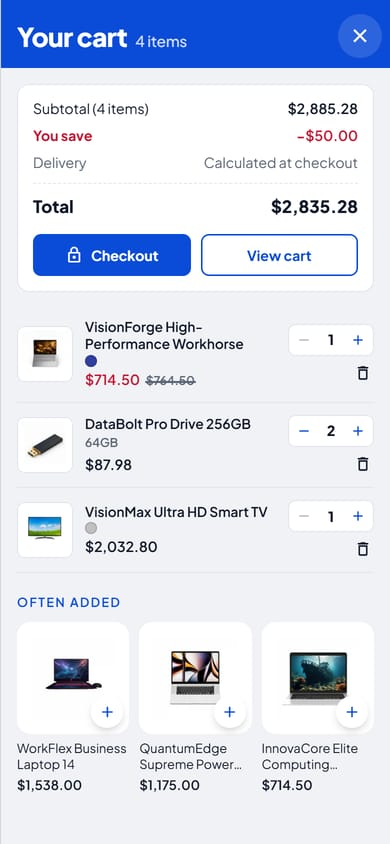
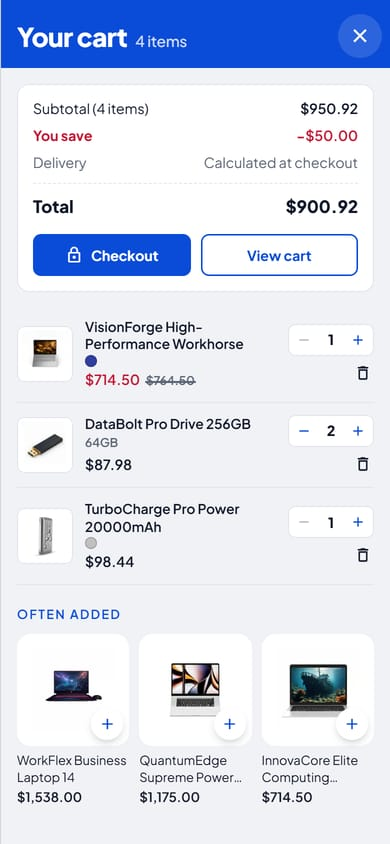
Digito 1.0.6: deploy 429 pinned on digito.selldone.shop; live README screenshots with the timers

diff --git a/DIGITO.md b/DIGITO.md
@@ -56,6 +56,7 @@ Digini sells everything itself. There is no "Sold by", no seller choice on the p
 - **1.0.6 (9 November 2026), the owner's request ("a real timer from Selldone, 365 days; the arrow in the circle is faint; the colour circle on the left is cut off"):**
   - **Real deal timers** (`components/digito/digito-clock.ts`). Every clock counts down to the deal's own `dis_end` — the chosen variant's when it has its own pricing — by Selldone's rule (`PriceHelper.HasDiscountCountDownMode` / `GetEndOfDiscountDate`, local time); a deal without an end date shows no clock, and nothing is invented. One shared 1-second ticker drives every clock on the page. The Deal of the Day says "Ends in 364d 23:15:07" (was "Next deal in" to midnight); the deals page head says "Deals end in" (or "Next deal ends in" when deals end at different times); the product page's buy card has a yellow "Deal ends in" pill under the price; every discounted card has a quiet "Ends in …" line under "Was", reserved on every card so a row's feet stay level. Selldone's rotated countdown badge (`ProductDiscountCountdown`) is no longer mounted in the product overview or the quick-buy sheet: the line in the buy card replaces it, on the same dates. On 9 November 2026 the coordinator set every one of the 61 deals (and the 4 variants with their own discount) to run from 2026-11-09 07:00 UTC to 2027-11-09 07:00 UTC, so all 61 show, with about 364 days to go.
   - **Hero arrows:** a solid white 44px circle with a navy chevron at full weight and a shadow, both arrows always shown (the chevron had taken the slide's white text colour and the left one showed only on hover).
+  - Uploaded as deploy 429 (release `01M6ZPBPJF386JPKFT83GM084K`), pinned on domain 1239; live check: the saved block names 1.0.6, the Deal of the Day reads "Ends in 364d 22:36…" and ticks, cards and the product page show the same end, at 390 and 1440. README screenshots retaken from the live shop.
   - **Swatch rings:** the swatch row keeps 5px of room on every side for the chosen swatch's ring (2px gap + 2px ring); the row's own clipping cut the first swatch's ring on its left. The capacity row matches its height, so cards with colours and cards with capacities stay level. Measured on cards, the Deal of the Day, the filter panel and the product page at 360, 390, 768, 1024 and 1440: no ring clipped, no "Ends in" line spills, every row's feet level, no sideways scroll.
 
 - **Live check (9 November 2026, 08:22, after Selldone's outage):** https://digito.selldone.shop/ answers 200 and its `window.sdShopLayout` "saved" block names `digito-electronics` 1.0.4 (release `01M6YZGYD7CDREJTJ8HK2MANFT`); home, a category, a product (opened in-app) and the deals checked at 390 px: no sideways scroll, no errors. The live shop record has no checkout option (guests must sign in) and no payment method for the storefront (`gateways` empty), so no guest test order could be placed. README screenshots retaken from the live shop (the filled cart is the drawer with a stand-in cart put in the app's store; nothing was sent).
